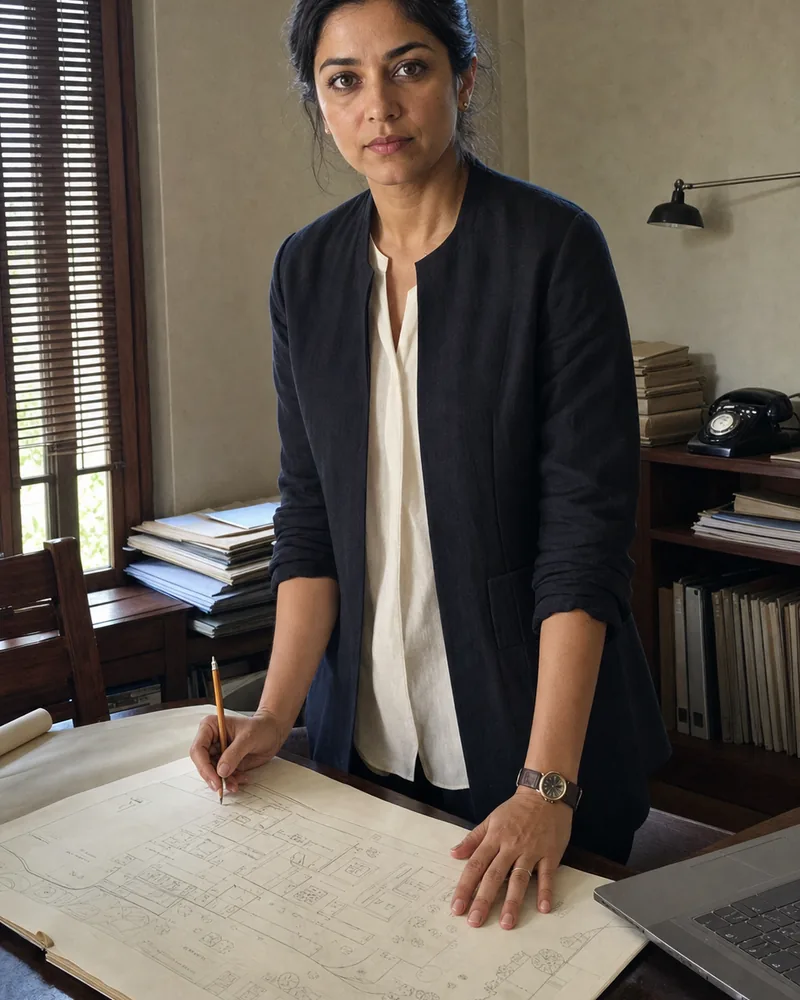
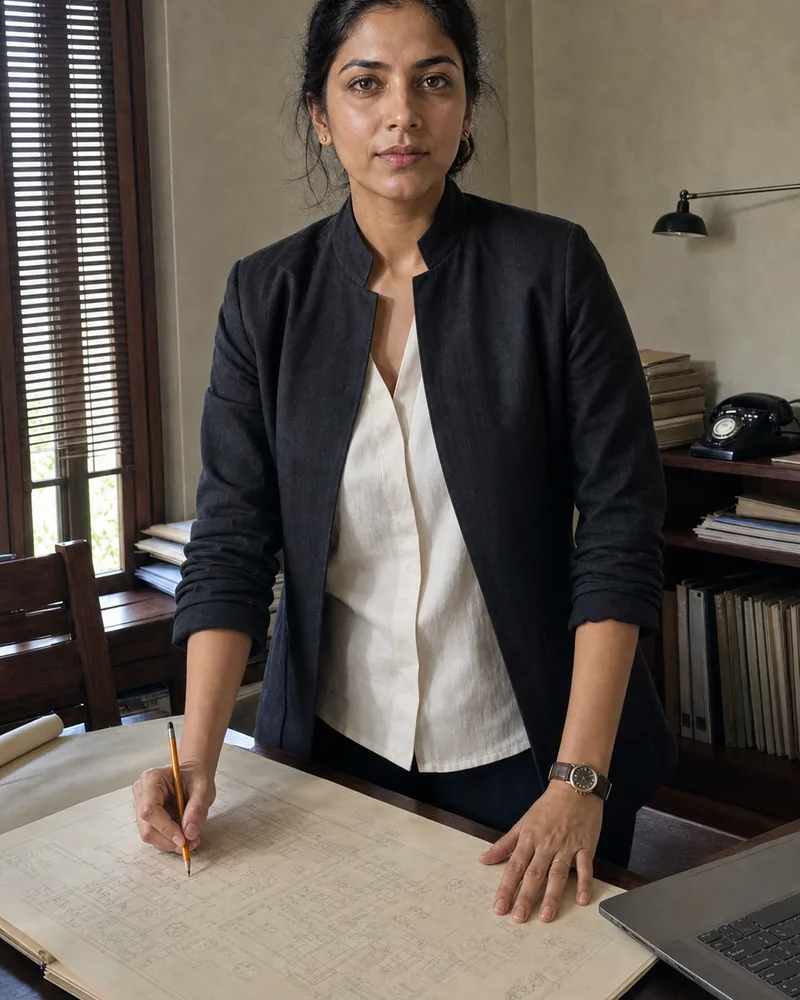
- Complete property galleries

diff --git a/case-studies/halcyon/photos.js b/case-studies/halcyon/photos.js
@@ -23,11 +23,36 @@ export const HC_PHOTOS = {
     '/case-studies/halcyon/mill-lane-living.webp',
     '/case-studies/halcyon/mill-lane-kitchen.webp',
   ],
-  prop4: 'https://images.unsplash.com/photo-1518780664697-55e3ad937233?w=800&q=80&auto=format&fit=crop',
-  prop5: 'https://images.unsplash.com/photo-1600596542815-ffad4c1539a9?w=800&q=80&auto=format&fit=crop',
-  prop6: 'https://images.unsplash.com/photo-1564013434775-f71db0030976?w=800&q=80&auto=format&fit=crop',
-  prop7: 'https://images.unsplash.com/photo-1542621334-a254cf47733d?w=800&q=80&auto=format&fit=crop',
-  prop8: 'https://images.unsplash.com/photo-1600607687939-ce8a6c25118c?w=800&q=80&auto=format&fit=crop',
+  prop4: [
+    '/case-studies/halcyon/the-crest-exterior.webp',
+    '/case-studies/halcyon/the-crest-drone.webp',
+    '/case-studies/halcyon/the-crest-pool.webp',
+    '/case-studies/halcyon/the-crest-wide.webp',
+  ],
+  prop5: [
+    '/case-studies/halcyon/breakwater-living.webp',
+    '/case-studies/halcyon/breakwater-exterior.webp',
+    '/case-studies/halcyon/breakwater-dining.webp',
+    '/case-studies/halcyon/breakwater-bedroom.webp',
+  ],
+  prop6: [
+    '/case-studies/halcyon/brindavan-exterior.webp',
+    '/case-studies/halcyon/brindavan-drone.webp',
+    '/case-studies/halcyon/brindavan-entrance.webp',
+    '/case-studies/halcyon/brindavan-courtyard.webp',
+  ],
+  prop7: [
+    '/case-studies/halcyon/aspinwall-exterior.webp',
+    '/case-studies/halcyon/aspinwall-living.webp',
+    '/case-studies/halcyon/aspinwall-dining.webp',
+    '/case-studies/halcyon/aspinwall-bedroom.webp',
+  ],
+  prop8: [
+    '/case-studies/halcyon/the-banyan-exterior.webp',
+    '/case-studies/halcyon/the-banyan-left.webp',
+    '/case-studies/halcyon/the-banyan-right.webp',
+    '/case-studies/halcyon/the-banyan-veranda.webp',
+  ],
 
   interlude: '/case-studies/halcyon/sahyadri-corridor.webp',
   heroland: '/case-studies/halcyon/hero-estate.webp',

diff --git a/case-studies/halcyon/home.jsx b/case-studies/halcyon/home.jsx
@@ -292,11 +292,11 @@ export function PropertiesIndex() {
     { idx: '1', images: HC_PHOTOS.prop1, name: 'Riverbend',     mod: 'Cottage',   loc: 'Bandra (W)',     beds: '3 BD · 2 BA · 1,840 SF', year: '1948', price: '₹8.5 Cr',       cat: 'home' },
     { idx: '2', images: HC_PHOTOS.prop2, name: 'Sahyadri House', mod: 'Manor',    loc: 'Lonavala',       beds: '5 BD · 4 BA · 3,210 SF', year: '1894', price: '₹28.5 Cr',      cat: 'estate' },
     { idx: '3', images: HC_PHOTOS.prop3, name: 'Mill Lane',     mod: 'Residence', loc: 'Bandra (W)',     beds: '2 BD · 2 BA · 1,210 SF', year: '2026', price: '₹6.8 Cr',       cat: 'home' },
-    { idx: '4',   img: HC_PHOTOS.prop4, name: 'The Crest',     mod: 'Estate',    loc: 'Khandala',       beds: '6 BD · 5 BA · 4,800 SF', year: '1908', price: '₹17.5 Cr',      cat: 'estate' },
-    { idx: '5',    img: HC_PHOTOS.prop5, name: 'The Hutments',  mod: 'Restored',  loc: 'Karjat',         beds: '4 BD · 3 BA · 2,640 SF', year: '1894', price: 'Sold · ₹7.2 Cr', cat: 'sold' },
-    { idx: '6',   img: HC_PHOTOS.prop6, name: 'Brindavan',     mod: 'Cottage',   loc: 'Walkeshwar',     beds: '3 BD · 2 BA · 1,990 SF', year: '1907', price: '₹11 Cr',         cat: 'home' },
-    { idx: '7',  img: HC_PHOTOS.prop7, name: 'Aspinwall',     mod: 'Estate',    loc: 'Mahabaleshwar',  beds: '7 BD · 6 BA · 6,200 SF', year: '1888', price: '₹38 Cr',         cat: 'estate' },
-    { idx: '8', img: HC_PHOTOS.prop8, name: 'The Banyan',    mod: 'Farmhouse', loc: 'Alibag',         beds: '4 BD · 3 BA · 3,100 SF', year: '1898', price: 'Sold · ₹11 Cr',  cat: 'sold' },
+    { idx: '4', images: HC_PHOTOS.prop4, name: 'The Crest',    mod: 'Bungalow',  loc: 'Juhu Scheme',    beds: '6 BD · 7 BA · 8,400 SF', year: '2026', price: '₹85 Cr',         cat: 'estate' },
+    { idx: '5', images: HC_PHOTOS.prop5, name: 'The Breakwater', mod: 'Apartment', loc: 'Nepean Sea Rd', beds: '4 BD · 4 BA · 3,600 SF', year: '2026', price: 'Sold · ₹42 Cr', cat: 'sold' },
+    { idx: '6', images: HC_PHOTOS.prop6, name: 'Brindavan',   mod: 'Cottage',   loc: 'Walkeshwar',     beds: '3 BD · 2 BA · 1,990 SF', year: '1907', price: '₹11 Cr',         cat: 'home' },
+    { idx: '7', images: HC_PHOTOS.prop7, name: 'Aspinwall',  mod: 'Estate',    loc: 'Mahabaleshwar',  beds: '7 BD · 6 BA · 6,200 SF', year: '1888', price: '₹38 Cr',         cat: 'estate' },
+    { idx: '8', images: HC_PHOTOS.prop8, name: 'The Banyan', mod: 'Farmhouse', loc: 'Alibag',         beds: '4 BD · 3 BA · 3,100 SF', year: '1898', price: 'Sold · ₹11 Cr',  cat: 'sold' },
   ];
   const visible = filter === 'all' ? props : props.filter(p => p.cat === filter);
   const filters = [

diff --git a/case-studies/halcyon/styles.css b/case-studies/halcyon/styles.css
@@ -907,7 +907,6 @@ button { font: inherit; color: inherit; background: none; border: 0; cursor: poi
 .hc-tm-lead-img { aspect-ratio: 4 / 5; overflow: hidden; background: var(--hc-bone); }
 .hc-tm-lead-img img {
   width: 100%; height: 100%; object-fit: cover;
-  filter: grayscale(0.5) sepia(0.28) contrast(1.02);
   transition: transform 1.6s cubic-bezier(.2, .7, .2, 1);
 }
 .hc-tm-lead:hover .hc-tm-lead-img img { transform: scale(1.05); }